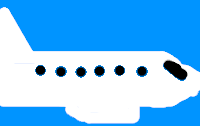
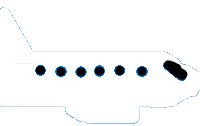
Added clouds and drew better pictures

diff --git a/src/main/java/com/CGD/Engine.java b/src/main/java/com/CGD/Engine.java
@@ -11,6 +11,8 @@ public class Engine {
 
     Engine() {
         window = new RenderWindow(new VideoMode(resolution.x, resolution.y), "Game", WindowStyle.DEFAULT);
+        for (int i = 0; i < clouds.length; ++i)
+            clouds[i] = new Cloud(resolution.x);
     }
     public void run() {
         Clock clock = new Clock();
@@ -44,25 +46,18 @@ public class Engine {
     }
     private void update(float dtAsSeconds) {
         player.update(dtAsSeconds, resolution.y);
-        for (Cloud el : clouds) {
-            System.out.println("cloud update");
-            el.update(dtAsSeconds);
-        }
-        cloud.update(dtAsSeconds);
+        for (int i = 0; i < clouds.length; ++i)
+            clouds[i].update(dtAsSeconds);
     }
     private void draw() {
         window.clear(new Color(0, 147, 255));
         window.draw(player.getSprite());
-        for (Cloud el : clouds) {
-            System.out.println("cloud draw");
-            window.draw(el.getSprite());
-        }
-        window.draw(cloud.getSprite());
+        for (int i = 0; i < clouds.length; ++i)
+            window.draw(clouds[i].getSprite());
         window.display();
     }
     private RenderWindow window;
     private final Vector2i resolution = new Vector2i(1280, 720);
     private Player player = new Player();
-    private Vector<Cloud> clouds = new Vector<Cloud>(resolution.x);
-    private Cloud cloud = new Cloud(resolution.x);
+    private Cloud[] clouds = new Cloud[4];
 }

diff --git a/src/main/java/com/CGD/Cloud.java b/src/main/java/com/CGD/Cloud.java
@@ -13,7 +13,7 @@ public class Cloud {
     }
     public void spawn() {
         Random rng = new Random();
-        switch (rng.nextInt() % 3) {
+        switch (Math.abs(rng.nextInt() % 3)) {
             case 0:
                 sprite = new Sprite(TextureHolder.getInstance().getTexture("graphics/cloud1.png"));
                 System.out.println("cloud created with sprite 1");
@@ -31,8 +31,8 @@ public class Cloud {
                 sprite = new Sprite(TextureHolder.getInstance().getTexture("graphics/cloud1.png"));
                 break;
         }
-        position = new Vector2f(resolutionX + sprite.getLocalBounds().width, rng.nextInt() % 7 * 100);
-        speedModifier = rng.nextInt() % 151;
+        position = new Vector2f(resolutionX + sprite.getLocalBounds().width, Math.abs(rng.nextInt() % 7 * 100));
+        speedModifier = Math.abs(rng.nextInt() % 151);
         sprite.setPosition(position);
     }
     public void update(float elapsedTime) {
@@ -42,7 +42,7 @@ public class Cloud {
             return;
         }
         position = new Vector2f(position.x - ((speed + speedModifier) * elapsedTime), position.y);
-        System.out.println("moving: " + position.x);
+        System.out.println("moving: " + position.x + ";" + position.y);
         sprite.setPosition(position);
     }
     public Sprite getSprite() {
